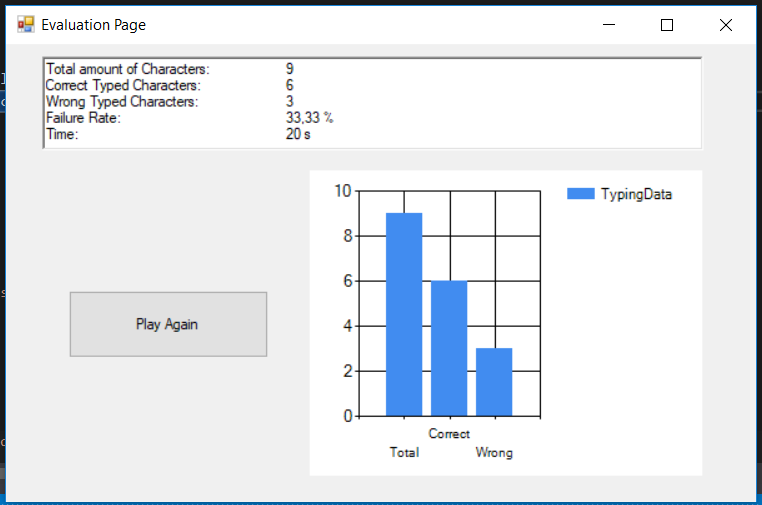
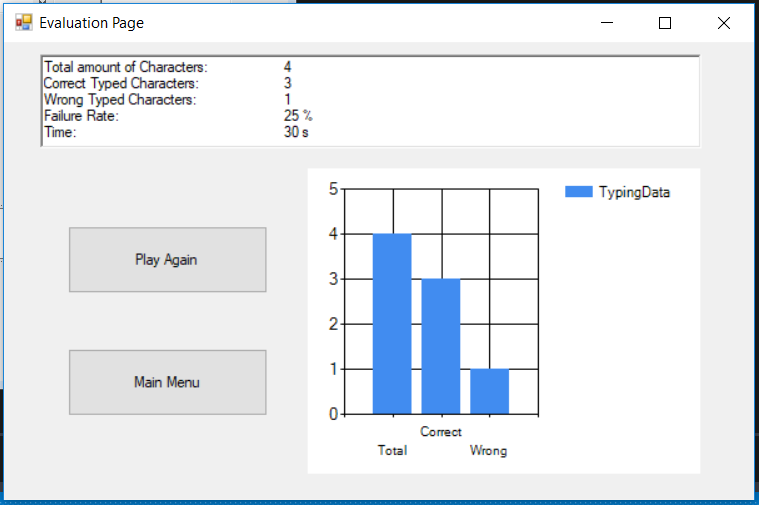
Add files via upload

diff --git a/StartingPage.Designer.cs b/StartingPage.Designer.cs
@@ -1,0 +1,114 @@
+namespace LearnToType
+{
+    partial class StartingPage
+    {
+        /// <summary>
+        /// Required designer variable.
+        /// </summary>
+        private System.ComponentModel.IContainer components = null;
+
+        /// <summary>
+        /// Clean up any resources being used.
+        /// </summary>
+        /// <param name="disposing">true if managed resources should be disposed; otherwise, false.</param>
+        protected override void Dispose(bool disposing)
+        {
+            if (disposing && (components != null))
+            {
+                components.Dispose();
+            }
+            base.Dispose(disposing);
+        }
+
+        #region Windows Form Designer generated code
+
+        /// <summary>
+        /// Required method for Designer support - do not modify
+        /// the contents of this method with the code editor.
+        /// </summary>
+        private void InitializeComponent()
+        {
+            this.dropDownList = new System.Windows.Forms.ComboBox();
+            this.btnStartTyping = new System.Windows.Forms.Button();
+            this.btnCloseApplication = new System.Windows.Forms.Button();
+            this.label1 = new System.Windows.Forms.Label();
+            this.headingLabel = new System.Windows.Forms.Label();
+            this.SuspendLayout();
+            // 
+            // dropDownList
+            // 
+            this.dropDownList.FormattingEnabled = true;
+            this.dropDownList.Location = new System.Drawing.Point(329, 143);
+            this.dropDownList.Name = "dropDownList";
+            this.dropDownList.Size = new System.Drawing.Size(161, 24);
+            this.dropDownList.TabIndex = 0;
+            this.dropDownList.TabStop = false;
+            // 
+            // btnStartTyping
+            // 
+            this.btnStartTyping.Location = new System.Drawing.Point(329, 211);
+            this.btnStartTyping.Name = "btnStartTyping";
+            this.btnStartTyping.Size = new System.Drawing.Size(179, 84);
+            this.btnStartTyping.TabIndex = 1;
+            this.btnStartTyping.Text = "Start Typing";
+            this.btnStartTyping.UseVisualStyleBackColor = true;
+            this.btnStartTyping.Click += new System.EventHandler(this.btnStartTyping_Click);
+            // 
+            // btnCloseApplication
+            // 
+            this.btnCloseApplication.Location = new System.Drawing.Point(329, 321);
+            this.btnCloseApplication.Name = "btnCloseApplication";
+            this.btnCloseApplication.Size = new System.Drawing.Size(179, 84);
+            this.btnCloseApplication.TabIndex = 2;
+            this.btnCloseApplication.Text = "Close Application";
+            this.btnCloseApplication.UseVisualStyleBackColor = true;
+            this.btnCloseApplication.Click += new System.EventHandler(this.btnCloseApplication_Click);
+            // 
+            // label1
+            // 
+            this.label1.AutoSize = true;
+            this.label1.Font = new System.Drawing.Font("Microsoft Sans Serif", 10.8F, System.Drawing.FontStyle.Regular, System.Drawing.GraphicsUnit.Point, ((byte)(0)));
+            this.label1.Location = new System.Drawing.Point(203, 143);
+            this.label1.Name = "label1";
+            this.label1.Size = new System.Drawing.Size(107, 24);
+            this.label1.TabIndex = 3;
+            this.label1.Text = "Select time:";
+            // 
+            // headingLabel
+            // 
+            this.headingLabel.AutoSize = true;
+            this.headingLabel.Font = new System.Drawing.Font("Microsoft Sans Serif", 28.2F, System.Drawing.FontStyle.Bold, System.Drawing.GraphicsUnit.Point, ((byte)(0)));
+            this.headingLabel.Location = new System.Drawing.Point(117, 35);
+            this.headingLabel.Name = "headingLabel";
+            this.headingLabel.Size = new System.Drawing.Size(579, 55);
+            this.headingLabel.TabIndex = 4;
+            this.headingLabel.Text = "Welcome to Type Master";
+            // 
+            // StartingPage
+            // 
+            this.AutoScaleDimensions = new System.Drawing.SizeF(8F, 16F);
+            this.AutoScaleMode = System.Windows.Forms.AutoScaleMode.Font;
+            this.ClientSize = new System.Drawing.Size(800, 450);
+            this.Controls.Add(this.headingLabel);
+            this.Controls.Add(this.label1);
+            this.Controls.Add(this.btnCloseApplication);
+            this.Controls.Add(this.btnStartTyping);
+            this.Controls.Add(this.dropDownList);
+            this.Name = "StartingPage";
+            this.StartPosition = System.Windows.Forms.FormStartPosition.CenterScreen;
+            this.Text = "StartingPage";
+            this.Load += new System.EventHandler(this.StartingPage_Load);
+            this.ResumeLayout(false);
+            this.PerformLayout();
+
+        }
+
+        #endregion
+
+        private System.Windows.Forms.ComboBox dropDownList;
+        private System.Windows.Forms.Button btnStartTyping;
+        private System.Windows.Forms.Button btnCloseApplication;
+        private System.Windows.Forms.Label label1;
+        private System.Windows.Forms.Label headingLabel;
+    }
+}

diff --git a/Form1.Designer.cs b/Form1.Designer.cs
@@ -43,6 +43,7 @@
             this.timer1 = new System.Windows.Forms.Timer(this.components);
             this.fingerAdviceBox = new System.Windows.Forms.TextBox();
             this.headingLabel = new System.Windows.Forms.Label();
+            this.btnReturnToMainMenu = new System.Windows.Forms.Button();
             this.SuspendLayout();
             // 
             // timeBox
@@ -77,7 +78,7 @@
             // 
             // btnPlayAgain
             // 
-            this.btnPlayAgain.Location = new System.Drawing.Point(129, 385);
+            this.btnPlayAgain.Location = new System.Drawing.Point(51, 385);
             this.btnPlayAgain.Name = "btnPlayAgain";
             this.btnPlayAgain.Size = new System.Drawing.Size(156, 73);
             this.btnPlayAgain.TabIndex = 9;
@@ -88,7 +89,7 @@
             // 
             // btnEvaluateTyping
             // 
-            this.btnEvaluateTyping.Location = new System.Drawing.Point(513, 385);
+            this.btnEvaluateTyping.Location = new System.Drawing.Point(588, 385);
             this.btnEvaluateTyping.Name = "btnEvaluateTyping";
             this.btnEvaluateTyping.Size = new System.Drawing.Size(156, 73);
             this.btnEvaluateTyping.TabIndex = 10;
@@ -170,10 +171,10 @@
             // fingerAdviceBox
             // 
             this.fingerAdviceBox.Font = new System.Drawing.Font("Microsoft Sans Serif", 16.2F, System.Drawing.FontStyle.Bold, System.Drawing.GraphicsUnit.Point, ((byte)(0)));
-            this.fingerAdviceBox.Location = new System.Drawing.Point(199, 301);
+            this.fingerAdviceBox.Location = new System.Drawing.Point(105, 301);
             this.fingerAdviceBox.Multiline = true;
             this.fingerAdviceBox.Name = "fingerAdviceBox";
-            this.fingerAdviceBox.Size = new System.Drawing.Size(404, 61);
+            this.fingerAdviceBox.Size = new System.Drawing.Size(605, 51);
             this.fingerAdviceBox.TabIndex = 17;
             this.fingerAdviceBox.TabStop = false;
             this.fingerAdviceBox.TextAlign = System.Windows.Forms.HorizontalAlignment.Center;
@@ -188,11 +189,23 @@
             this.headingLabel.TabIndex = 18;
             this.headingLabel.Text = "Train your typing skills";
             // 
+            // btnReturnToMainMenu
+            // 
+            this.btnReturnToMainMenu.Location = new System.Drawing.Point(311, 385);
+            this.btnReturnToMainMenu.Name = "btnReturnToMainMenu";
+            this.btnReturnToMainMenu.Size = new System.Drawing.Size(170, 73);
+            this.btnReturnToMainMenu.TabIndex = 19;
+            this.btnReturnToMainMenu.TabStop = false;
+            this.btnReturnToMainMenu.Text = "Main Menu";
+            this.btnReturnToMainMenu.UseVisualStyleBackColor = true;
+            this.btnReturnToMainMenu.Click += new System.EventHandler(this.btnReturnToMainMenu_Click);
+            // 
             // Form1
             // 
             this.AutoScaleDimensions = new System.Drawing.SizeF(8F, 16F);
             this.AutoScaleMode = System.Windows.Forms.AutoScaleMode.Font;
             this.ClientSize = new System.Drawing.Size(800, 474);
+            this.Controls.Add(this.btnReturnToMainMenu);
             this.Controls.Add(this.headingLabel);
             this.Controls.Add(this.fingerAdviceBox);
             this.Controls.Add(this.secondLeftCharacterBox);
@@ -232,6 +245,7 @@
         private System.Windows.Forms.Timer timer1;
         private System.Windows.Forms.TextBox fingerAdviceBox;
         private System.Windows.Forms.Label headingLabel;
+        private System.Windows.Forms.Button btnReturnToMainMenu;
     }
 }
 

diff --git a/EvaluationPage.Designer.cs b/EvaluationPage.Designer.cs
@@ -34,6 +34,7 @@
             this.typingDataChart = new System.Windows.Forms.DataVisualization.Charting.Chart();
             this.typingDataBox = new System.Windows.Forms.RichTextBox();
             this.btnPlayAgain = new System.Windows.Forms.Button();
+            this.btnReturnToMainMenu = new System.Windows.Forms.Button();
             ((System.ComponentModel.ISupportInitialize)(this.typingDataChart)).BeginInit();
             this.SuspendLayout();
             // 
@@ -63,7 +64,7 @@
             // 
             // btnPlayAgain
             // 
-            this.btnPlayAgain.Location = new System.Drawing.Point(66, 242);
+            this.btnPlayAgain.Location = new System.Drawing.Point(68, 181);
             this.btnPlayAgain.Name = "btnPlayAgain";
             this.btnPlayAgain.Size = new System.Drawing.Size(214, 66);
             this.btnPlayAgain.TabIndex = 3;
@@ -71,11 +72,22 @@
             this.btnPlayAgain.UseVisualStyleBackColor = true;
             this.btnPlayAgain.Click += new System.EventHandler(this.btnPlayAgain_Click);
             // 
+            // btnReturnToMainMenu
+            // 
+            this.btnReturnToMainMenu.Location = new System.Drawing.Point(68, 302);
+            this.btnReturnToMainMenu.Name = "btnReturnToMainMenu";
+            this.btnReturnToMainMenu.Size = new System.Drawing.Size(214, 66);
+            this.btnReturnToMainMenu.TabIndex = 4;
+            this.btnReturnToMainMenu.Text = "Main Menu";
+            this.btnReturnToMainMenu.UseVisualStyleBackColor = true;
+            this.btnReturnToMainMenu.Click += new System.EventHandler(this.btnReturnToMainMenu_Click);
+            // 
             // EvaluationPage
             // 
             this.AutoScaleDimensions = new System.Drawing.SizeF(8F, 16F);
             this.AutoScaleMode = System.Windows.Forms.AutoScaleMode.Font;
             this.ClientSize = new System.Drawing.Size(800, 450);
+            this.Controls.Add(this.btnReturnToMainMenu);
             this.Controls.Add(this.btnPlayAgain);
             this.Controls.Add(this.typingDataBox);
             this.Controls.Add(this.typingDataChart);
@@ -92,5 +104,6 @@
         private System.Windows.Forms.DataVisualization.Charting.Chart typingDataChart;
         private System.Windows.Forms.RichTextBox typingDataBox;
         private System.Windows.Forms.Button btnPlayAgain;
+        private System.Windows.Forms.Button btnReturnToMainMenu;
     }
 }

diff --git a/StartingPage.cs b/StartingPage.cs
@@ -1,0 +1,58 @@
+using System;
+using System.Collections.Generic;
+using System.ComponentModel;
+using System.Data;
+using System.Drawing;
+using System.Linq;
+using System.Text;
+using System.Threading.Tasks;
+using System.Windows.Forms;
+using System.Threading;
+
+namespace LearnToType
+{
+    public partial class StartingPage : Form
+    {
+        List<string> choices = null;
+        Thread th;
+
+        public StartingPage()
+        {
+            InitializeComponent();
+        }
+
+        private void StartingPage_Load(object sender, EventArgs e)
+        {
+            choices = new List<string>();
+            choices.Add("15");
+            choices.Add("30");
+            choices.Add("45");
+            choices.Add("60");
+            choices.Add("75");
+            choices.Add("90");
+            choices.Add("105");
+            choices.Add("120");
+            dropDownList.Items.AddRange(choices.ToArray());
+        }
+
+        private void openTypingPage(object obj)
+        {
+            Form1 newPage = new Form1();
+            newPage.setTime(Convert.ToInt32(dropDownList.SelectedItem));
+            Application.Run(newPage);
+        }
+
+        private void btnStartTyping_Click(object sender, EventArgs e)
+        {
+            th = new Thread(openTypingPage);
+            th.SetApartmentState(ApartmentState.STA);
+            th.Start();
+            this.Close();
+        }
+
+        private void btnCloseApplication_Click(object sender, EventArgs e)
+        {
+            Application.Exit();
+        }
+    }
+}

diff --git a/Form1.cs b/Form1.cs
@@ -16,7 +16,7 @@ namespace LearnToType
         private int totalTypedCounter;
         Random rand = null;
         private int timeLeft = 0;
-        private const int maxTime = 20;
+        private static int maxTime = 30;
         SoundPlayer mySound = null;
         
         public Form1()
@@ -29,8 +29,17 @@ namespace LearnToType
             headingLabel.Focus();
         }
 
+        public void setTime(int time)
+        {
+            if (time != 0)
+            {
+                maxTime = time;
+            }
+        }
+
         private void resetPage()
         {
+            timer1.Stop();
             correctTypedCounter = 0;
             totalTypedCounter = 0;
 
@@ -162,6 +171,19 @@ namespace LearnToType
         {
             timer1.Stop();
             timer1.Dispose();
+        }
+
+        private void openStartingPage(object obj)
+        {
+            Application.Run(new StartingPage());
+        }
+
+        private void btnReturnToMainMenu_Click(object sender, EventArgs e)
+        {
+            th = new Thread(openStartingPage);
+            th.SetApartmentState(ApartmentState.STA);
+            th.Start();
+            this.Close();
         }
     }
 }

diff --git a/EvaluationPage.cs b/EvaluationPage.cs
@@ -62,5 +62,18 @@ namespace LearnToType
             th.Start();
             this.Close();
         }
+
+        private void openStartingPage(object obj)
+        {
+            Application.Run(new StartingPage());
+        }
+
+        private void btnReturnToMainMenu_Click(object sender, EventArgs e)
+        {
+            th = new Thread(openStartingPage);
+            th.SetApartmentState(ApartmentState.STA);
+            th.Start();
+            this.Close();
+        }
     }
 }
